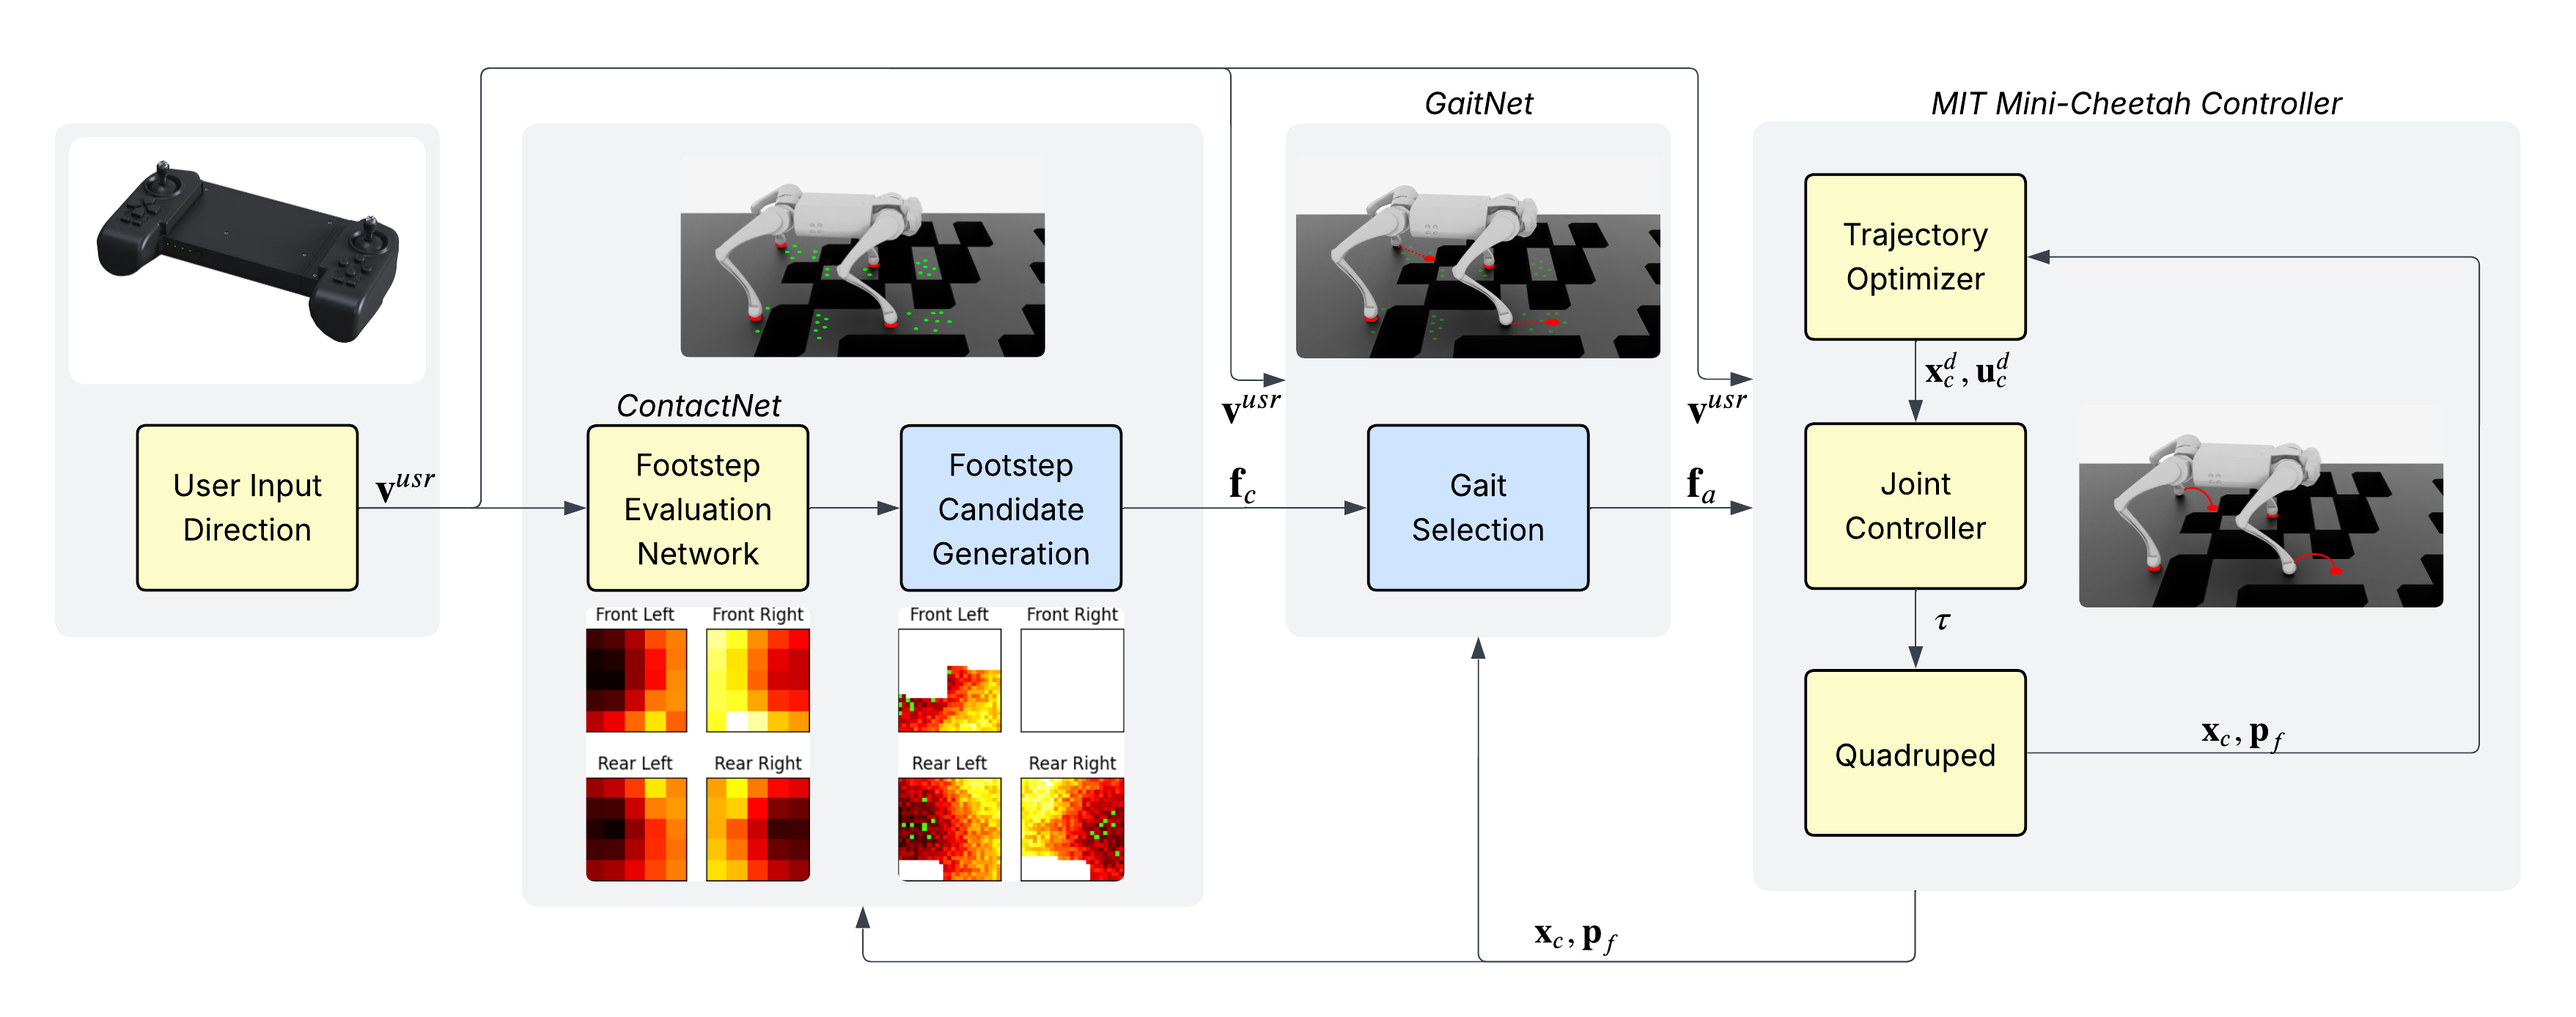
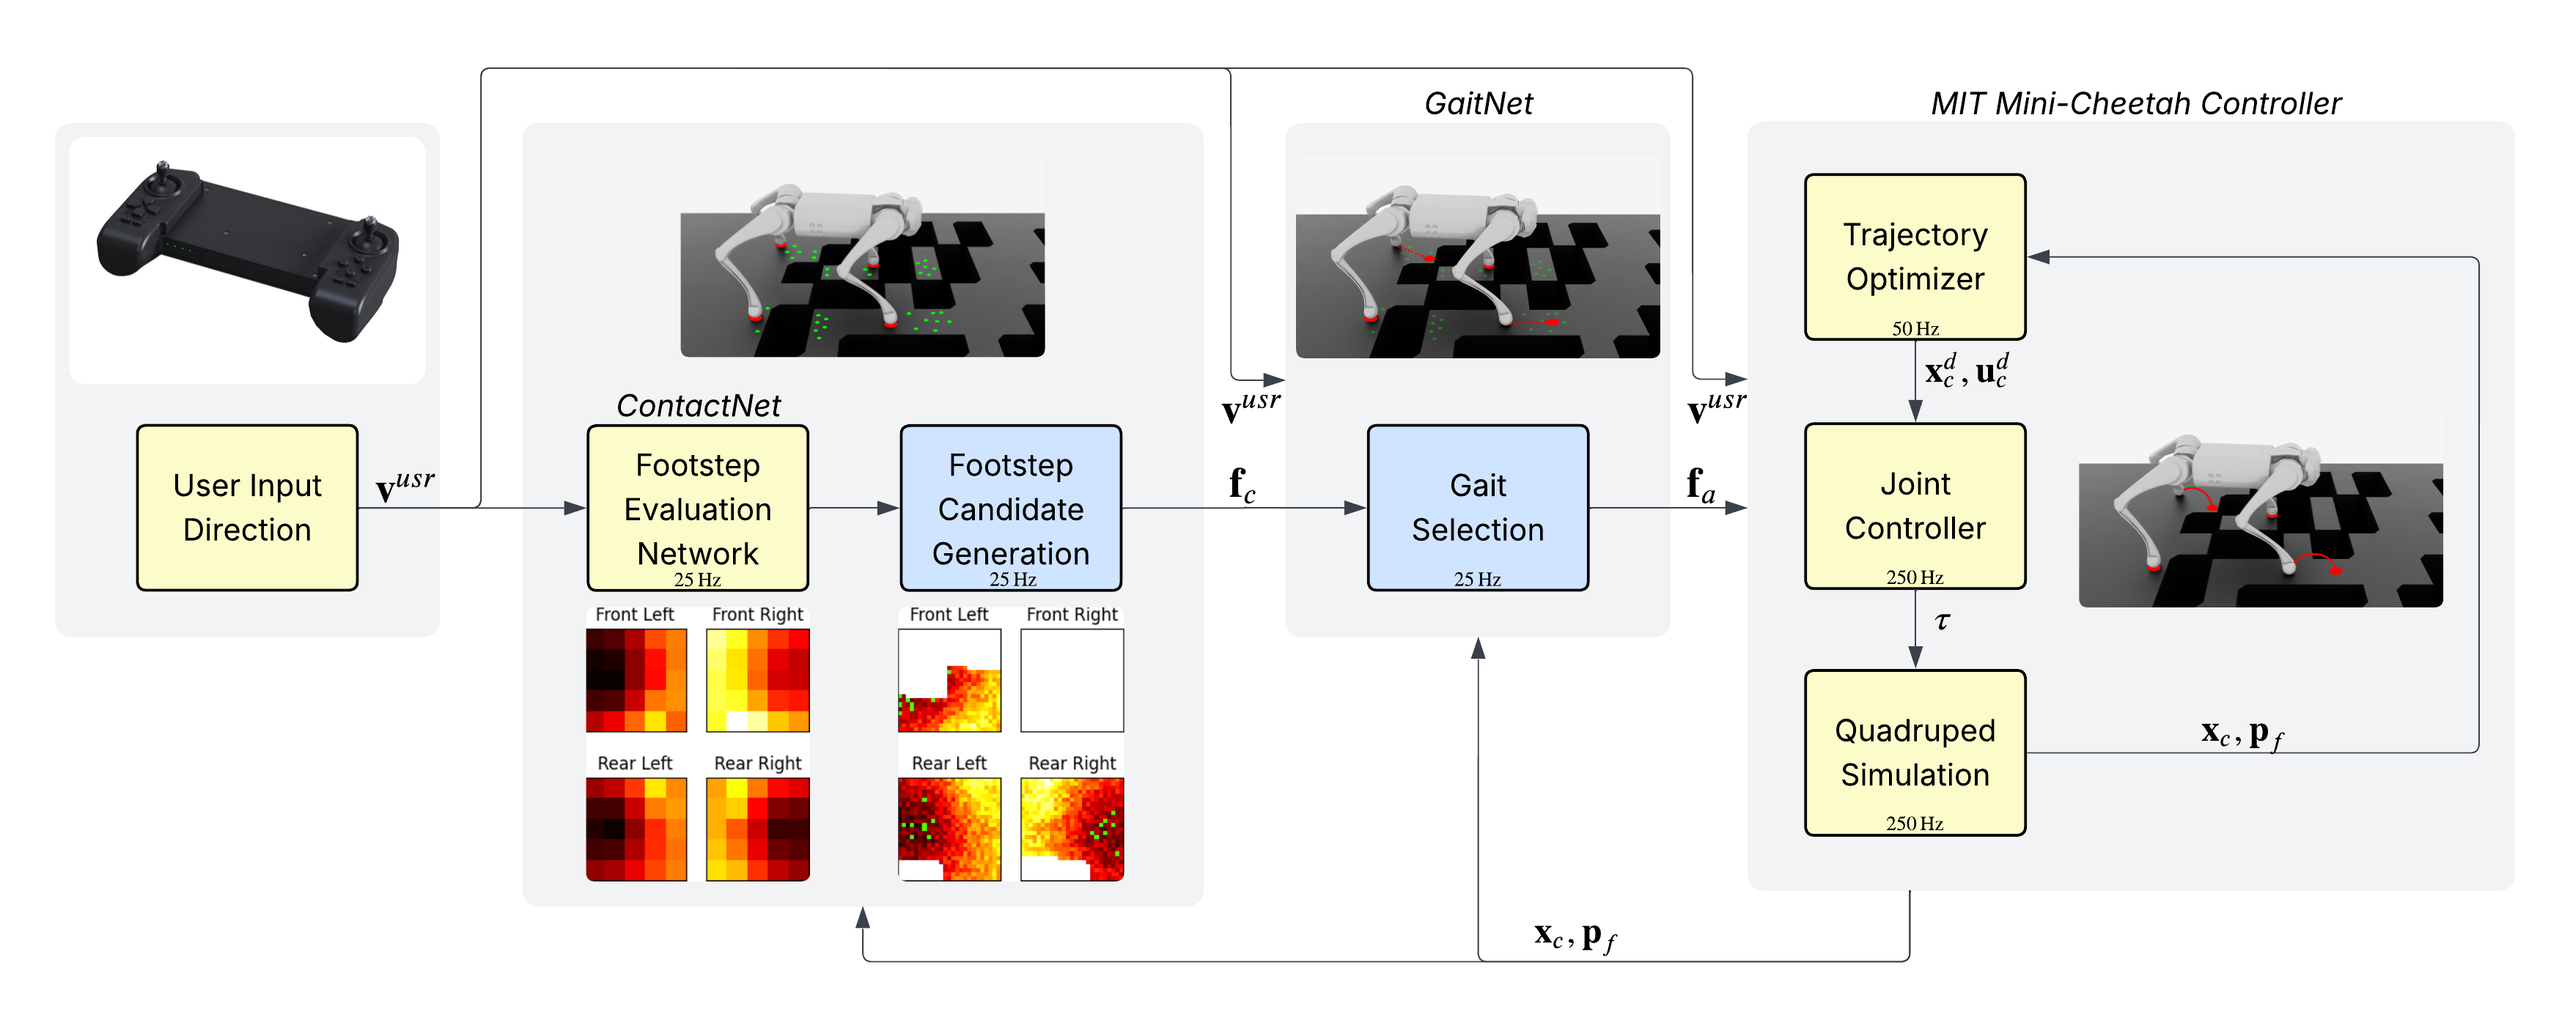
added frequencies to control diagram

diff --git a/methodology/overview.tex b/methodology/overview.tex
@@ -56,5 +56,5 @@ movements are permitted.
 \footnotetext{As is explained in later sections, GaitNet only outputs
   one footstep action at a time. The two separate foot target locations
   shown in the GaitNet visual would be selected sequentially with a
-  1/20s delay. This visual is meant to highlight the near simultaneous
+  1/25s delay. This visual is meant to highlight the near simultaneous
 nature of the footstep selection process.}
